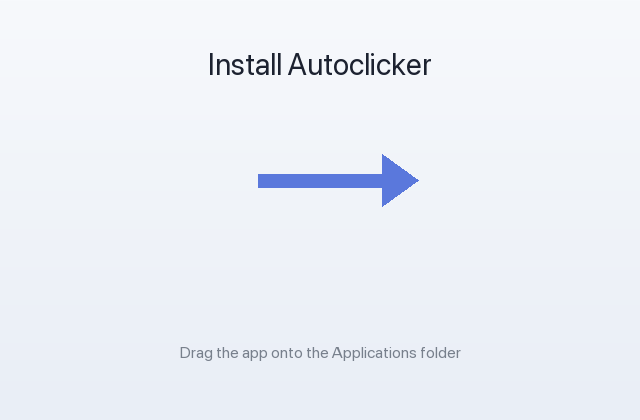
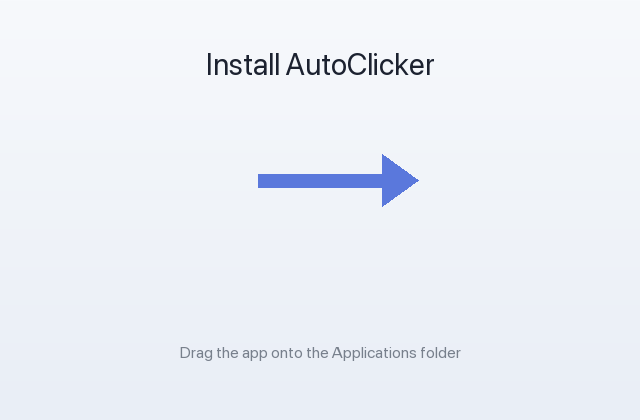
Rename app and installer to AutoClicker
Build the bundle as AutoClicker.app and the installer as AutoClicker.dmg
(volume + drag target renamed to match). Update the app window title,
build scripts, DMG settings/background, download links on the site and
README, and the release assets/notes.

Changed region(s): [[0.3125, 0.1238, 0.6875, 0.1857]]

diff --git a/docs/index.html b/docs/index.html
@@ -40,7 +40,7 @@
   "operatingSystem": "macOS 11+ (Apple Silicon)",
   "applicationCategory": "UtilitiesApplication",
   "offers": { "@type": "Offer", "price": "0", "priceCurrency": "USD" },
-  "downloadUrl": "https://github.com/ishaanniaj/Autoclicker/releases/latest/download/Autoclicker.dmg",
+  "downloadUrl": "https://github.com/ishaanniaj/Autoclicker/releases/latest/download/AutoClicker.dmg",
   "softwareVersion": "1.0.0",
   "description": "A free, lightweight autoclicker for macOS with adjustable click speed, mouse-button choice, and a global start/stop hotkey."
 }
@@ -158,7 +158,7 @@
     <img class="logo" src="icon.png" width="76" height="76" alt="AutoClicker for Mac app icon">
     <h1>AutoClicker for Mac</h1>
     <p class="lead">A free, lightweight auto clicker for macOS. Set your speed, pick a button, and click on autopilot.</p>
-    <a class="btn" href="https://github.com/ishaanniaj/Autoclicker/releases/latest/download/Autoclicker.dmg">⬇︎ Download for Mac</a>
+    <a class="btn" href="https://github.com/ishaanniaj/Autoclicker/releases/latest/download/AutoClicker.dmg">⬇︎ Download for Mac</a>
     <div class="req">Free · Apple Silicon Macs (M1, M2, M3, M4) · macOS 11 or later</div>
   </div>
 </section>
@@ -182,8 +182,8 @@
   <div class="wrap">
     <h2>Install in under a minute</h2>
     <div class="steps">
-      <div class="step"><span class="n"></span><p><a href="https://github.com/ishaanniaj/Autoclicker/releases/latest/download/Autoclicker.dmg"><strong>Download Autoclicker.dmg</strong></a> and open it.</p></div>
-      <div class="step"><span class="n"></span><p>Drag <strong>Autoclicker</strong> onto the <strong>Applications</strong> folder.</p></div>
+      <div class="step"><span class="n"></span><p><a href="https://github.com/ishaanniaj/Autoclicker/releases/latest/download/AutoClicker.dmg"><strong>Download AutoClicker.dmg</strong></a> and open it.</p></div>
+      <div class="step"><span class="n"></span><p>Drag <strong>AutoClicker</strong> onto the <strong>Applications</strong> folder.</p></div>
       <div class="step"><span class="n"></span><p>Open it — first time, right-click → <strong>Open</strong> → <strong>Open</strong>. (If macOS can't verify the developer, go to <strong>System Settings → Privacy &amp; Security</strong> → <strong>Open Anyway</strong>.)</p></div>
       <div class="step"><span class="n"></span><p>Enable it under <strong>System Settings → Privacy &amp; Security → Accessibility</strong> so it can click, then quit and reopen.</p></div>
     </div>

diff --git a/make_og.py b/make_og.py
@@ -1,0 +1,44 @@
+#!/usr/bin/env python3
+"""Draw the social-share / Open Graph preview image -> docs/og-image.png (1200x630)."""
+from PIL import Image, ImageDraw, ImageFont
+
+W, H = 1200, 630
+img = Image.new("RGBA", (W, H), (0, 0, 0, 0))
+
+# gradient background (brand blue -> indigo)
+top, bot = (79, 157, 255), (106, 92, 255)
+px = img.load()
+for y in range(H):
+    t = y / (H - 1)
+    c = tuple(int(top[i] + (bot[i] - top[i]) * t) for i in range(3))
+    for x in range(W):
+        px[x, y] = c + (255,)
+
+draw = ImageDraw.Draw(img)
+
+
+def font(size):
+    for n in ("/System/Library/Fonts/SFNS.ttf",
+              "/System/Library/Fonts/Supplemental/Arial.ttf"):
+        try:
+            return ImageFont.truetype(n, size)
+        except OSError:
+            pass
+    return ImageFont.load_default()
+
+
+# app icon on the left (icon_1024.png already has rounded corners)
+icon = Image.open("icon_1024.png").convert("RGBA").resize((300, 300))
+img.paste(icon, (110, 165), icon)
+
+# text block on the right
+tx = 470
+draw.text((tx, 210), "AutoClicker", font=font(96), fill="white",
+          stroke_width=1, stroke_fill="white")
+draw.text((tx, 310), "for Mac", font=font(96), fill="white",
+          stroke_width=1, stroke_fill="white")
+draw.text((tx, 440), "Free auto clicker · Apple Silicon",
+          font=font(34), fill=(233, 238, 255))
+
+img.convert("RGB").save("docs/og-image.png")
+print("wrote docs/og-image.png")

diff --git a/autoclicker.py b/autoclicker.py
@@ -209,7 +209,7 @@ class AutoClickerApp:
     def __init__(self, root):
         self.root = root
         self.click_thread = None
-        root.title("Autoclicker")
+        root.title("AutoClicker")
         root.configure(bg=BG)
         root.resizable(False, False)
 
@@ -236,7 +236,7 @@ class AutoClickerApp:
         outer.pack(fill="both", expand=True)
 
         # ---- header ----
-        tk.Label(outer, text="Autoclicker", font=self.f_title,
+        tk.Label(outer, text="AutoClicker", font=self.f_title,
                  bg=BG, fg=TEXT).pack(anchor="w")
         tk.Label(outer, text="Clicks automatically at the speed you choose",
                  font=self.f_sub, bg=BG, fg=MUTED).pack(anchor="w", pady=(0, 8))
@@ -249,7 +249,7 @@ class AutoClickerApp:
             fg="#b3261e", font=self.f_hint,
             text=("⚠  No Accessibility permission — clicks won't actually "
                   "land.\nSystem Settings ▸ Privacy & Security ▸ Accessibility "
-                  "▸ turn ON Autoclicker, then quit and reopen this app."))
+                  "▸ turn ON AutoClicker, then quit and reopen this app."))
         self.perm_lbl.pack(padx=10, pady=8, anchor="w")
         # packed/unpacked dynamically by _check_perm()
 

diff --git a/dmg_settings.py b/dmg_settings.py
@@ -1,7 +1,7 @@
 import os.path
 
 # Source app to package (installed copy is clean + signed)
-application = "/Applications/Autoclicker.app"
+application = "/Applications/AutoClicker.app"
 appname = os.path.basename(application)
 
 format = "UDZO"                       # compressed, read-only

diff --git a/make_dmg_bg.py b/make_dmg_bg.py
@@ -35,7 +35,7 @@ def center_text(y, text, size, fill, bold=False):
 
 
 # title + hint (kept clear of the icon row at y~180)
-center_text(46, "Install Autoclicker", 30, (28, 34, 48))
+center_text(46, "Install AutoClicker", 30, (28, 34, 48))
 center_text(342, "Drag the app onto the Applications folder", 16, (120, 128, 140))
 
 # big arrow from the app (left, x~160) toward Applications (right, x~480)

diff --git a/README.md b/README.md
@@ -1,11 +1,11 @@
-# Autoclicker
+# AutoClicker
 
-A simple cross-platform autoclicker with a small Tkinter GUI. Clicks
+A simple cross-platform auto clicker with a small Tkinter GUI. Clicks
 automatically at a rate you choose, toggled with the global **`** (backtick) hotkey.
 
 ## Download (macOS, Apple Silicon)
-**[⬇︎ Download Autoclicker.dmg](https://github.com/ishaanniaj/Autoclicker/releases/latest/download/Autoclicker.dmg)** —
-this link downloads the app directly. Open the `.dmg` and drag **Autoclicker**
+**[⬇︎ Download AutoClicker.dmg](https://github.com/ishaanniaj/Autoclicker/releases/latest/download/AutoClicker.dmg)** —
+this link downloads the app directly. Open the `.dmg` and drag **AutoClicker**
 onto the **Applications** folder.
 
 First launch: right-click the app → **Open** → **Open** (it isn't signed by a
@@ -59,9 +59,9 @@ Prefer to run the Python directly instead of the app?
   [PyInstaller](https://pyinstaller.org), ad-hoc signs it, and installs it to
   `/Applications`.
 - **`build_dmg.command`** — packages the installed app into a
-  drag-to-Applications `Autoclicker.dmg`.
+  drag-to-Applications `AutoClicker.dmg`.
 
-Build output (`build/`, `dist/`, `*.spec`, `Autoclicker.dmg`) is gitignored.
+Build output (`build/`, `dist/`, `*.spec`, `AutoClicker.dmg`) is gitignored.
 
 ## Requirements
 - **Prebuilt app:** macOS on Apple Silicon (M1–M4), macOS 11+.